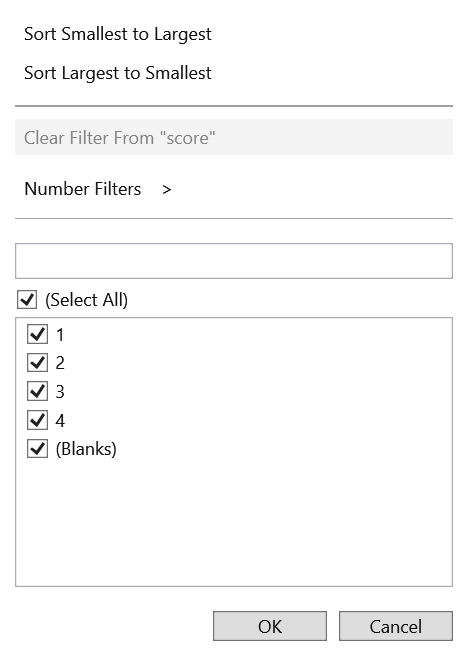
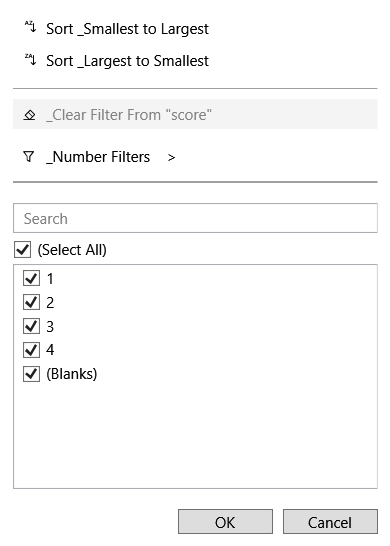
Add AutoFilter search watermark

diff --git a/src/FreeX.App.Host/AutoFilterDialog.cs b/src/FreeX.App.Host/AutoFilterDialog.cs
@@ -2,6 +2,7 @@ using System.Collections.ObjectModel;
 using System.Windows;
 using System.Windows.Automation;
 using System.Windows.Controls;
+using System.Windows.Media;
 using Free.Shared.Ribbon;
 using FreeX.App.Presentation.Filtering;
 using FreeX.Core.Model;
@@ -15,6 +16,15 @@ public sealed partial class AutoFilterDialog : Window
     private readonly List<AutoFilterDialogItem> _allItems;
     private readonly ObservableCollection<AutoFilterDialogItem> _items;
     private readonly TextBox _searchBox = new();
+    private readonly Grid _searchBoxHost = new();
+    private readonly TextBlock _searchWatermark = new()
+    {
+        Text = UiText.Get("AutoFilter_Search3"),
+        Margin = new Thickness(9, 0, 4, 0),
+        VerticalAlignment = System.Windows.VerticalAlignment.Center,
+        Foreground = Brushes.Gray,
+        IsHitTestVisible = false
+    };
     private readonly CheckBox _addCurrentSelectionToFilterBox = new()
     {
         Content = UiText.Get("AutoFilter_AddCurrentSelectionToFilter"),
@@ -256,14 +266,22 @@ public sealed partial class AutoFilterDialog : Window
         }
 
         AddFilterMenuSeparator(stack);
-        _searchBox.Margin = new Thickness(0, 8, 0, 6);
+        _searchBoxHost.Margin = new Thickness(0, 8, 0, 6);
         _searchBox.MinHeight = 24;
+        _searchBoxHost.Children.Add(_searchBox);
+        _searchBoxHost.Children.Add(_searchWatermark);
         _searchBox.ToolTip = UiText.Get("AutoFilter_Search3");
         AutomationProperties.SetName(_searchBox, UiText.Get("AutoFilter_Search3"));
         AutomationProperties.SetHelpText(_searchBox, UiText.Get("AutoFilter_Search3"));
         AutomationProperties.SetAccessKey(_searchBox, "S");
-        _searchBox.TextChanged += (_, _) => ApplySearchTextChange();
-        stack.Children.Add(_searchBox);
+        _searchBox.TextChanged += (_, _) =>
+        {
+            _searchWatermark.Visibility = string.IsNullOrEmpty(_searchBox.Text)
+                ? Visibility.Visible
+                : Visibility.Collapsed;
+            ApplySearchTextChange();
+        };
+        stack.Children.Add(_searchBoxHost);
         stack.Children.Add(_addCurrentSelectionToFilterBox);
         _selectAllBox.Checked += (_, _) => SetSelectionForVisibleItems(isSelected: true);
         _selectAllBox.Unchecked += (_, _) => SetSelectionForVisibleItems(isSelected: false);

diff --git a/tests/FreeX.App.Host.Tests/AutoFilterDialogTests.DialogControls.cs b/tests/FreeX.App.Host.Tests/AutoFilterDialogTests.DialogControls.cs
@@ -1,3 +1,4 @@
+using System.Windows;
 using System.Windows.Automation;
 using System.Windows.Controls;
 using FluentAssertions;
@@ -116,7 +117,7 @@ public sealed partial class AutoFilterDialogTests
     }
 
     [Fact]
-    public void DialogControls_SearchBoxHasNoStandaloneVisibleLabel()
+    public void DialogControls_SearchBoxHasExcelStyleWatermarkWithoutStandaloneLabel()
     {
         StaTestRunner.Run(() =>
         {
@@ -137,6 +138,13 @@ public sealed partial class AutoFilterDialogTests
 
                 AutomationProperties.GetAccessKey(searchBox).Should().Be("S");
                 labels.Should().NotContain("_Search");
+
+                var watermark = WpfTestTree.FindVisualDescendants<TextBlock>(dialog)
+                    .Single(textBlock => textBlock.Text == "Search");
+                watermark.Visibility.Should().Be(Visibility.Visible);
+
+                searchBox.Text = "Apple";
+                watermark.Visibility.Should().Be(Visibility.Collapsed);
             }
             finally
             {
